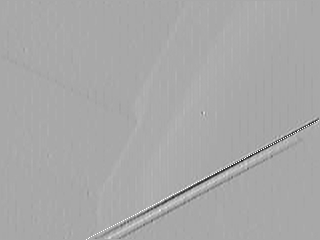
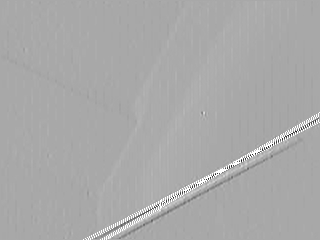
image-hough with drawing hough line works, found most significant 7 hough lines

diff --git a/src/VERSIONS.md b/src/VERSIONS.md
@@ -6,12 +6,12 @@ Descriptions of each branch, commit, and version of CV-Workbench.
 
 #### v0.1.6
 ```
-commit 523f239f1deda6722ca90c18fdfb911d9c901bb7 
+commit 3f77c8ec6225b5f806826c44c656f8d2fdf53279 
 (HEAD -> master, origin/master, origin/HEAD)
 Author: Todd Kushner <kushnertodd@gmail.com>
-Date:   Fri Jul 1 18:40:55 2022 -0600
+Date:   Fri Jul 1 18:55:40 2022 -0600
 ```
-- image-hough with drawing hough line works, found only most significant hough line
+- image-hough with drawing hough line works, found most significant 7 hough lines
 
 #### v0.1.5
 ```
